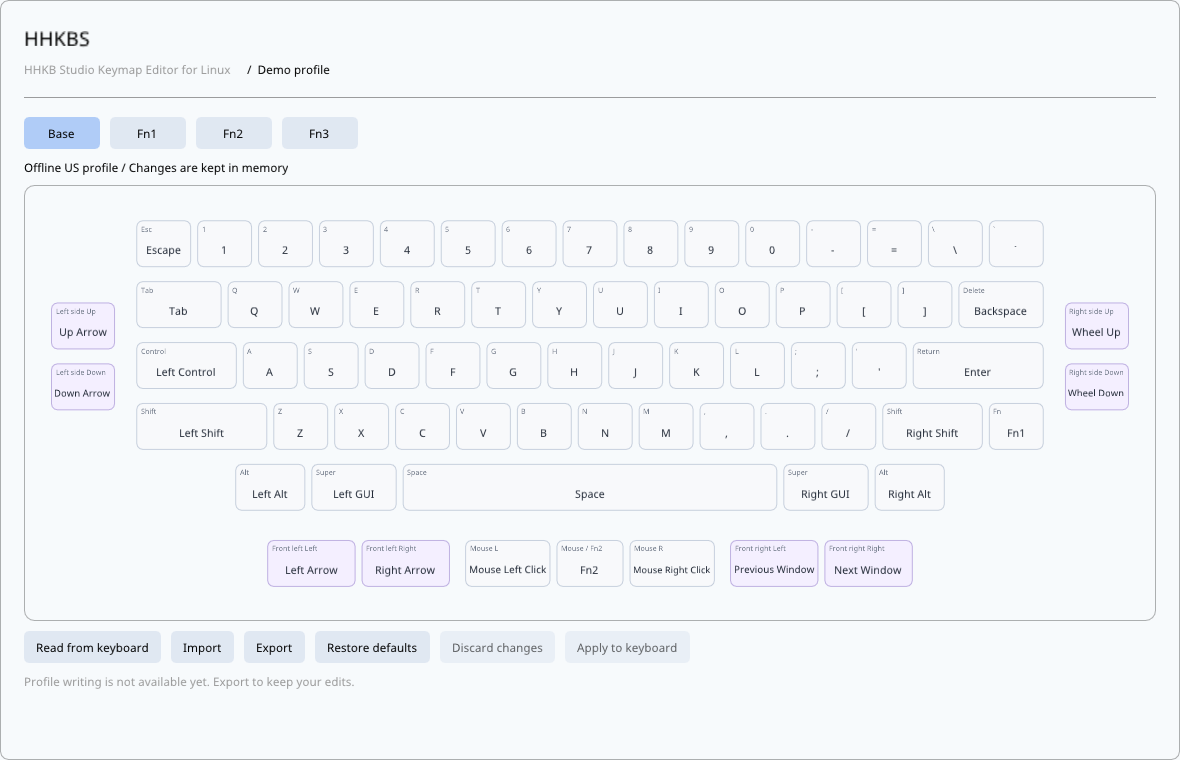
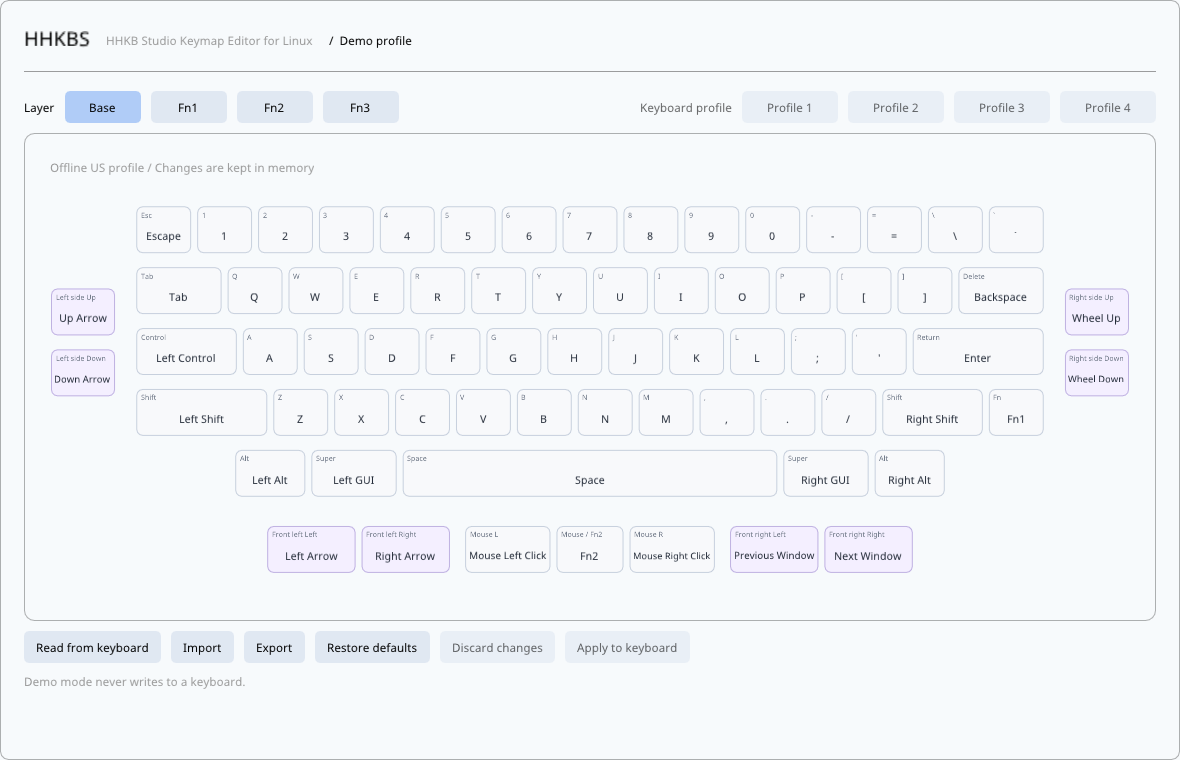
docs: document applying profiles and refresh the screenshot
The README still described export only, and the screenshot showed the old layout

diff --git a/readme.md b/readme.md
@@ -10,10 +10,21 @@ Release builds will be available on [GitHub Releases](https://github.com/07LEE/h
 
 ## Usage
 
-1. Connect the HHKB Studio over USB and open HHKBS.
-2. Select Base, Fn1, Fn2, or Fn3.
-3. Select a key, mouse button, or gesture-pad direction and assign a function.
-4. Export the edited profile as TOML.
+1. Connect the HHKB Studio over USB and open HHKBS. The profile the keyboard is using is loaded.
+2. Choose Profile 1 to 4 to edit another profile.
+3. Select Base, Fn1, Fn2, or Fn3.
+4. Select a key, mouse button, or gesture-pad direction and assign a function.
+5. Choose Apply to keyboard to write the profile, or Export to save it as TOML.
+
+Read from keyboard reloads the profile the keyboard is currently using, for example after you switch profiles on the keyboard itself.
+
+## Applying to the keyboard
+
+Apply to keyboard overwrites the selected profile on the keyboard. HHKBS first saves the profile the keyboard currently holds as a TOML backup in `~/.local/state/hhkbs/backups/` (or under `$XDG_STATE_HOME/hhkbs/backups/`), writes the new profile, and reads it back to check it. If the check fails, HHKBS tries to restore the backup. The keyboard returns to the profile it was using before, and the backup can be loaded with Import.
+
+Do not unplug the keyboard while it is being written. HHKBS is unofficial, so keep your own backup of profiles you care about.
+
+Restore defaults puts the built-in default keymap in the editor. It does not change the keyboard until you apply it.
 
 ## Device permissions
 
